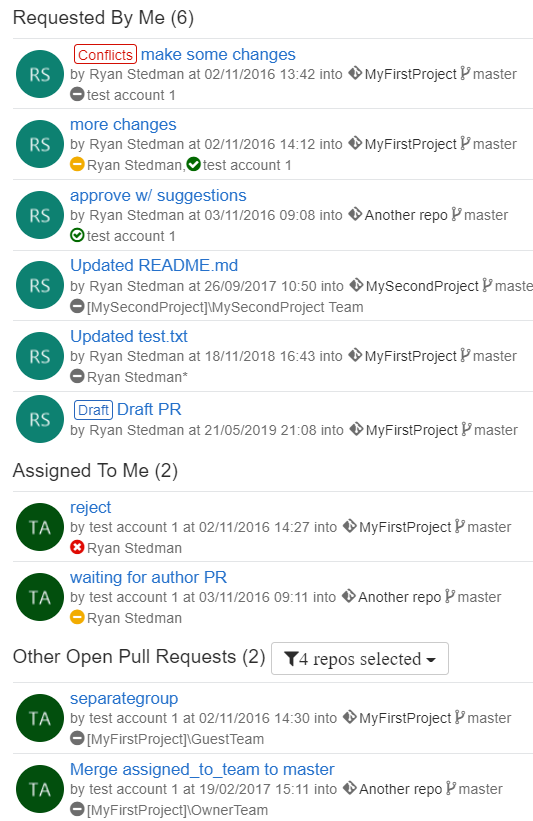
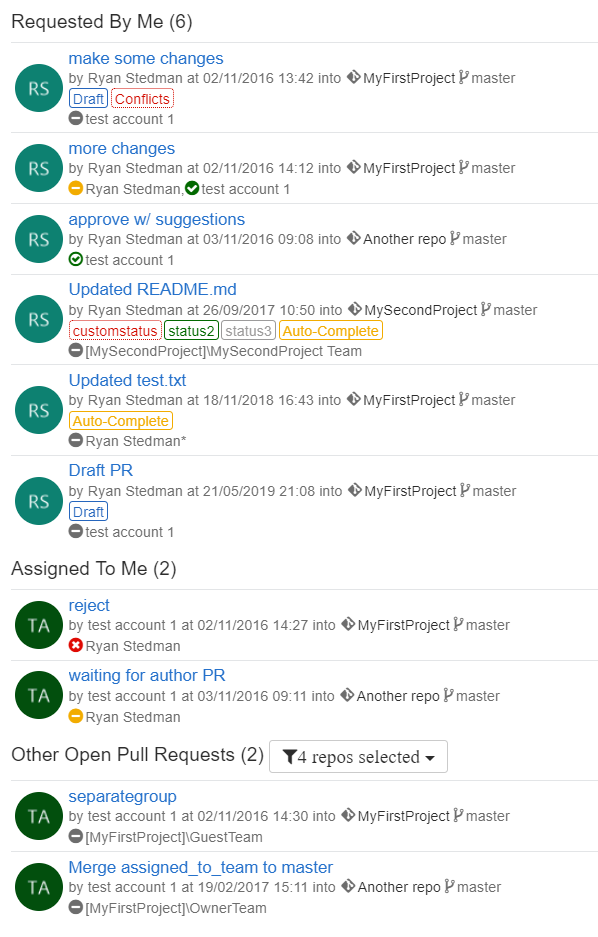
style & docs

Changed region(s): [[0.0, 0.0, 1.0, 1.0]]

diff --git a/src/app/pullRequest.component.ts b/src/app/pullRequest.component.ts
@@ -98,7 +98,7 @@ export class PullRequestComponent {
             tags.push({
                 name: "Conflicts",
                 description: "Conflicts exist between the source and target branch",
-                class: "conflicts"
+                class: "failed"
             });
         }
         if (this.pullRequest.statuses) {
@@ -111,7 +111,7 @@ export class PullRequestComponent {
                         stateDesc = "Error";
                         break;
                     case GitStatusState.Failed:
-                        cls = "rejected";
+                        cls = "failed";
                         stateDesc = "Failed";
                         break;
                     case GitStatusState.Succeeded:

diff --git a/src/assets/css/styles.css b/src/assets/css/styles.css
@@ -137,8 +137,10 @@ a.pull-request-title:hover {
   margin-right: 2px;
 }
 
-.conflicts {
+
+.failed {
   color: rgba( var(--palette-accent1,218, 10, 0) , 1 );
+  border-style: dotted;
 }
 
 .draft {

diff --git a/src/overview.md b/src/overview.md
@@ -26,8 +26,11 @@ Each pull request displayed shows a number of useful pieces of information.
 
 * PR Title & Author
 * Repository name, from branch & to branch
-* Merge conflicts - merge conflicts indicator displayed only if the PR has merge conflicts.
-* Drafts - draft PR indicator if the PR is in draft state
+* Tags - Status tags for the pull request
+    * Tag showing conflicts, if the pull request has conflicts
+    * Tag showing if the pull request is a draft
+    * Tag showing if the pull request is set to auto-complete
+    * Tag for each status set on the pull request
 * Reviewers
     * Each reviewer on the PR has an icon next to their name indicating their vote
         * Solid Green Circle Checkmark = Approved
@@ -83,6 +86,9 @@ Source code for this extension can be found in the [tfs-pullrequest-dashboard](h
 
 ## Change Log
 
+* (02/05/2019) 2.2.0
+    * feature: Add status tag if the pull request is set to auto complete
+    * feature: Add status tag for each status set on the pull request
 * (23/05/2019) 2.1.0 - feature: add indicator for draft PRs. Also change location of conflict indicator to be consistent.
 * (23/04/2019) 2.0.6 - bug fix: the dashboard widget stopped loading in Azure Devops 2019
 * (18/11/2018) 2.0.5 - bug fix: navigating to a PR from this extension would result in an error when using dev.azure.com.
